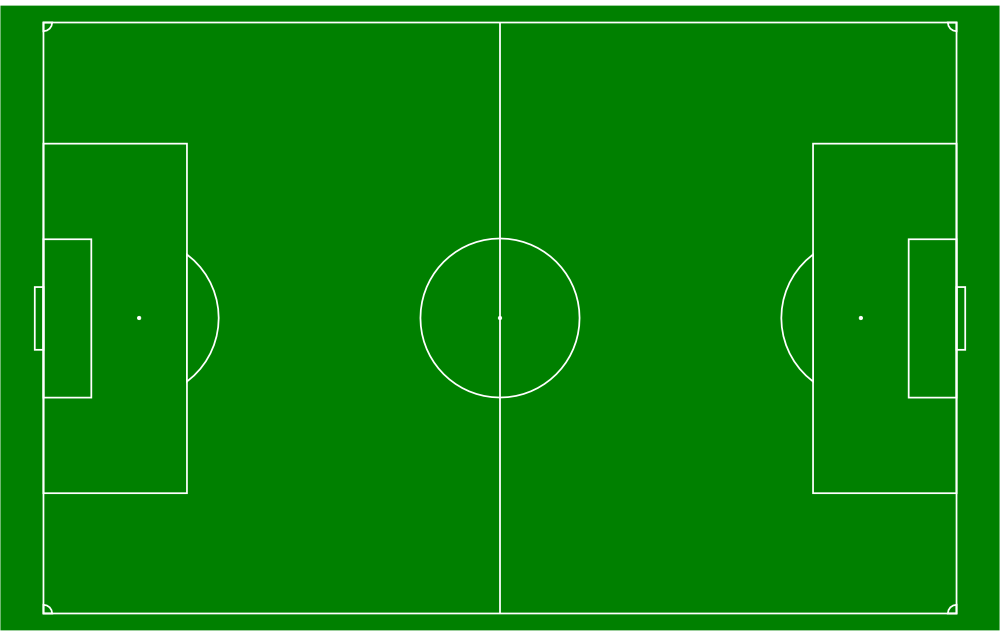
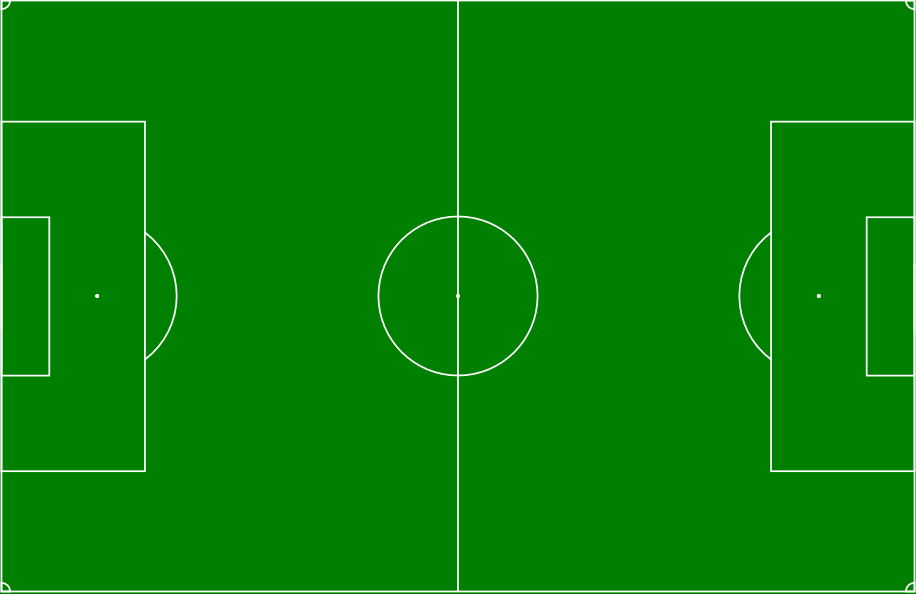
field dimensions updated

diff --git a/View/index.html b/View/index.html
@@ -11,7 +11,7 @@
 <body>
 	<div class="container">
 		<div class="row center-block">
-			<canvas class="center-block" id="gameStage" width="1000" height="636"></canvas>
+			<canvas class="center-block" id="gameStage" width="916" height="594"></canvas>
 		</div>
 		<div class="row center-block">
 			<canvas class="center-block" id="scoreBoard" width="1000" height="100"></canvas>

diff --git a/Sockick.js b/Sockick.js
@@ -2,8 +2,8 @@
   Declared as literal object (All variables are static)	  
   =====================================================*/
 var Sockick = {
-	HEIGHT : 636,
-	WIDTH : 1000,
+	HEIGHT : 594,
+	WIDTH : 916,
 	GATE_WIDTH: 180,
 	GAME_DURATION: 300,
 	PORT : 4344,
